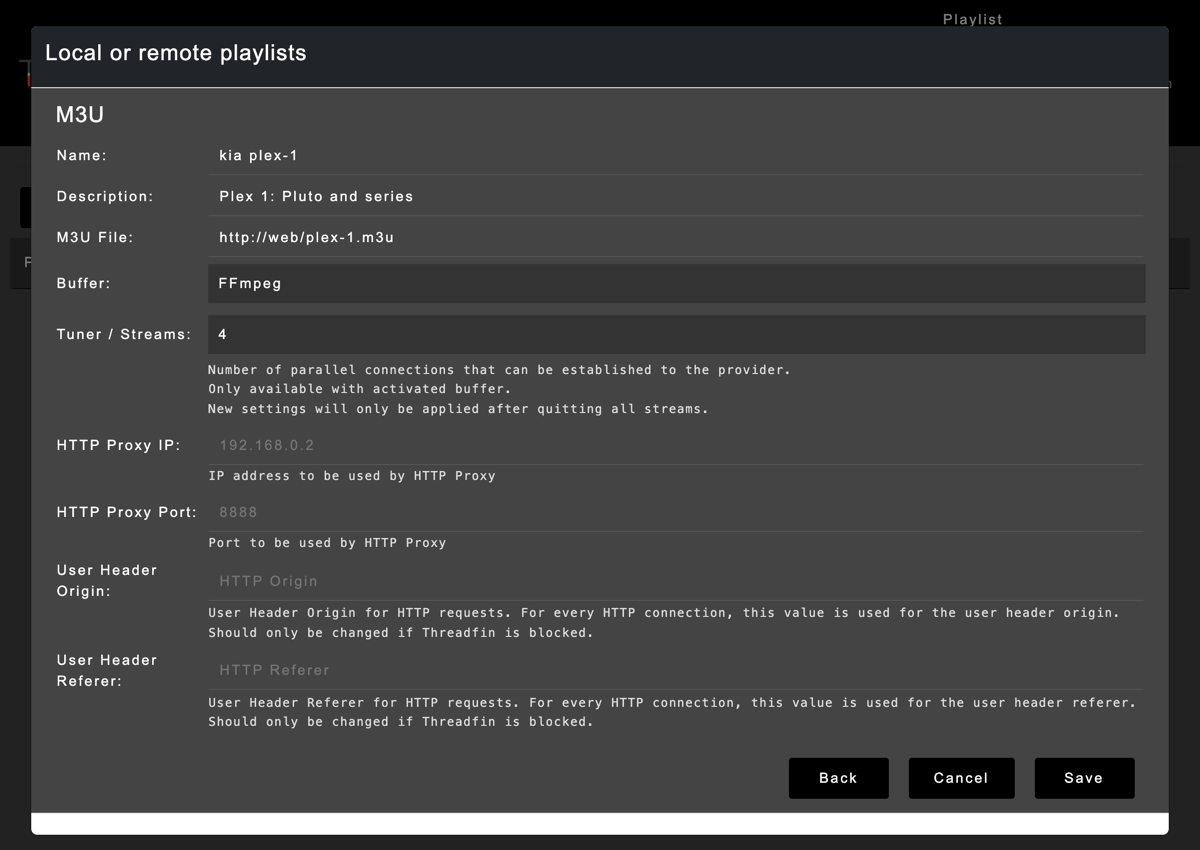
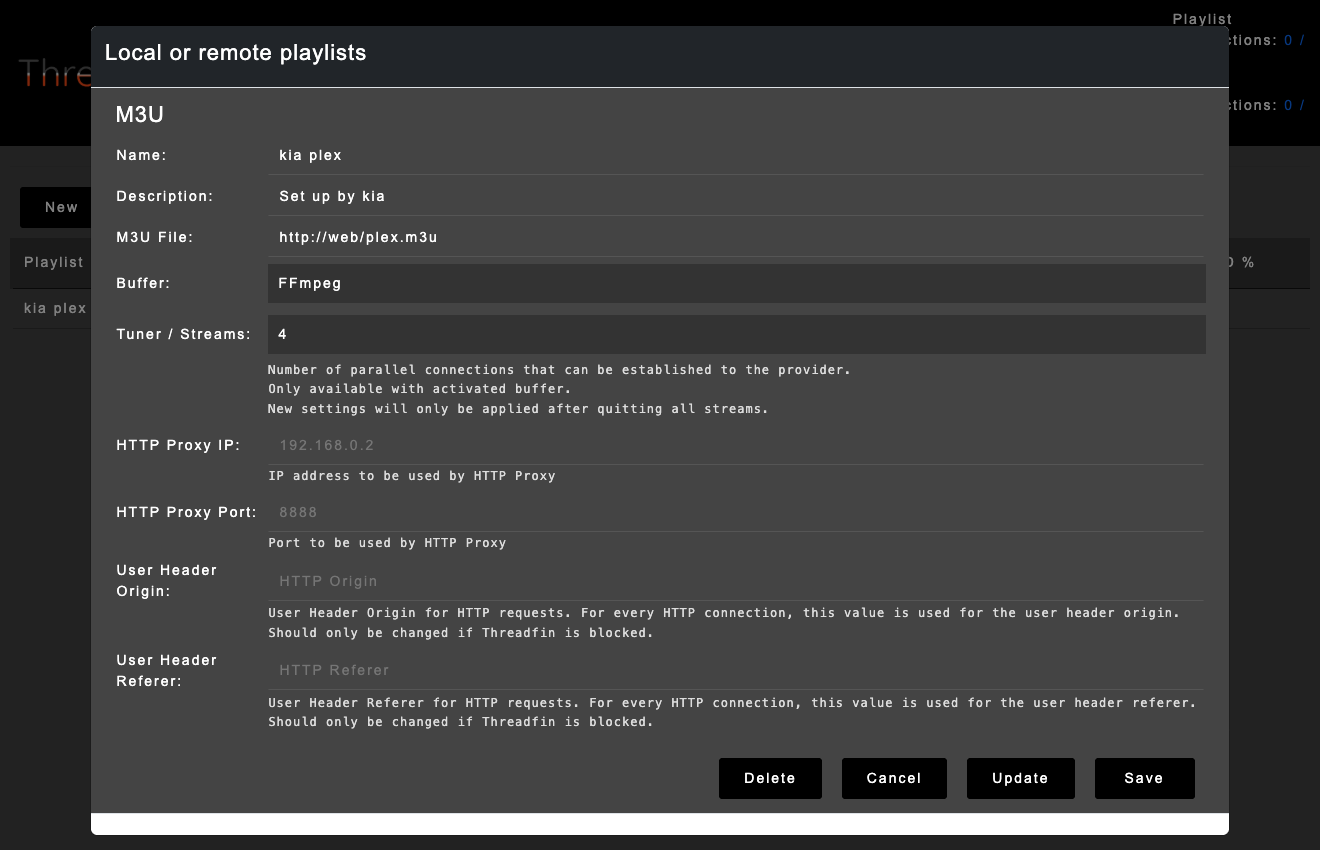
New screenshots: Ask kia, Why?, and Threadfin with the plex playlist (#181)
New screenshots, taken on a test VM running main, for the last item in
the 0.6.7 review.

- `images/kia-status-screenshot.png`: the Dashboard with the answer to
**Ask kia what's wrong** open. The old one came from 0.5.6 and had no
such button.
- `images/kia-playlist-screenshot.png`: a playlist's page with one
channel's **Why?** answer open. The stream works, no guide source
matched the channel, and kia says what to do.
- `images/plex/threadfin-playlist.png` and `threadfin-mapping.png`:
Threadfin with `kia plex` and `http://web/plex.m3u`, the values in
docs/plex.md's steps. The old ones showed `plex-1`.

The alt text in `how-it-works.md`, `install.md`, and `profiles.md` now
describes the answers. Addresses use the docs' stand-in, 192.168.1.20,
and times are in Eastern time. I viewed each image and stripped its
metadata. `plex-two-tuners.png` stays: the dash in its heading is Plex's
own.

🤖 Generated with [Claude Code](https://claude.com/claude-code)

diff --git a/docs/install.md b/docs/install.md
@@ -143,7 +143,7 @@ The first time, this downloads and builds kia (a few minutes), then starts the f
 
 When the log says `Next run at ...`, it's done. Check it in a browser at `http://<your address>:8780/`. You should see kia's [Dashboard](how-it-works.md#the-dashboard), with the channel counts and your playlist's address. If another device will use kia, open that address on it too.
 
-![kia's Dashboard after the first refresh: the menu, a banner saying everything's working, the Your stack tiles, the Getting started checklist, the channel counts, and the playlists, each with its address and a Copy button](../images/kia-status-screenshot.png)
+![kia's Dashboard after the first refresh: the menu, a banner saying everything's working, the answer to Ask kia what's wrong, the Your stack tiles, the Getting started checklist, the channel counts, and the playlists, each with its address and a Copy button](../images/kia-status-screenshot.png)
 
 kia also made a password for changing things on the Dashboard, such as [playlists for people and devices](profiles.md). It's in `state/admin-password.txt` in the kia folder; [the secure Dashboard](secure-page.md) explains it.
 

diff --git a/docs/how-it-works.md b/docs/how-it-works.md
@@ -100,7 +100,7 @@ Every page has the same menu at the top, a **Documentation** button that opens t
 
 <img src="../images/kia-timeline-phone.png" width="300" alt="A playlist's Timeline on a phone: three hours from 11 PM, channel names down the side, a red line at the current time, and a tapped show's title and times under its channel">
 
-![kia's Dashboard: the menu, a banner saying everything's working, the Your stack tiles for Threadfin, Plex, Grafana, and the exporters, the Getting started checklist, the channel counts, and three playlists, each with its address and a Copy button](../images/kia-status-screenshot.png)
+![kia's Dashboard: the menu, a banner saying everything's working, the answer to Ask kia what's wrong (the last refresh worked, and nothing needs you), the Your stack tiles for Threadfin, Plex, Grafana, and the exporters, the Getting started checklist, the channel counts, and three playlists, each with its address and a Copy button](../images/kia-status-screenshot.png)
 
 The banner at the top shows the state of the last refresh:
 

diff --git a/docs/profiles.md b/docs/profiles.md
@@ -36,7 +36,7 @@ You can make profiles on kia's Dashboard or by editing a file. Both change the s
 
 5. On the device, use that address as the **M3U playlist URL** in IPTV Simple Client (or your player), instead of `curated.m3u`. Kodi finds the playlist's own guide by itself. If another player asks for a guide address, it's on the same page.
 
-![A playlist's page on the Dashboard: its playlist and guide addresses with Copy buttons, and its channels with what's on now and next](../images/kia-playlist-screenshot.png)
+![A playlist's page on the Dashboard: its playlist and guide addresses with Copy buttons, and its channels with what's on now and next. One channel's Why? answer is open: its stream works, and no guide source matched it, with what to do](../images/kia-playlist-screenshot.png)
 
 To change or delete a playlist later, open it from the secure Dashboard and choose **Edit this playlist**. The browser tab remembers the password until you close it.
 
